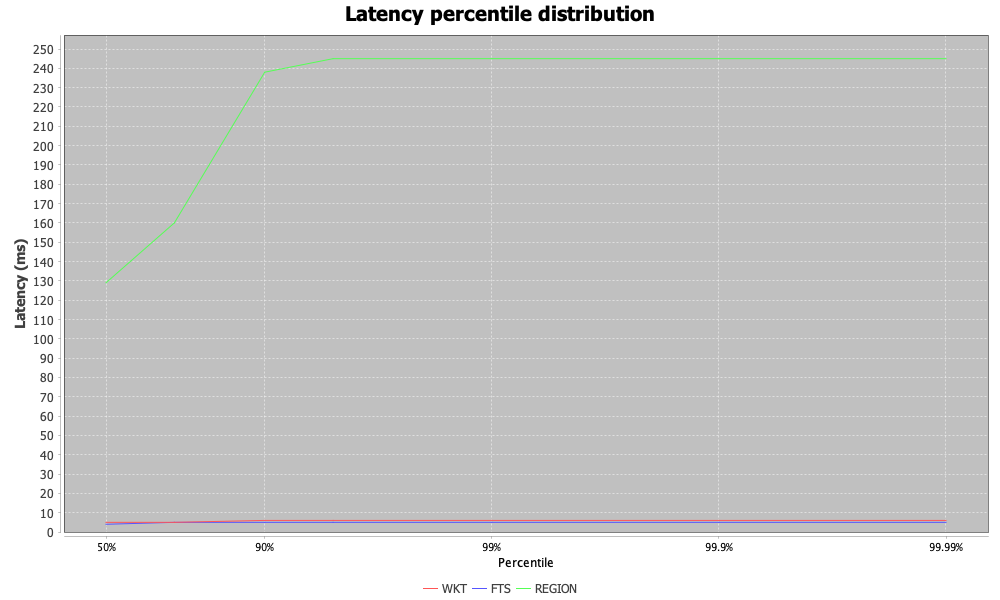
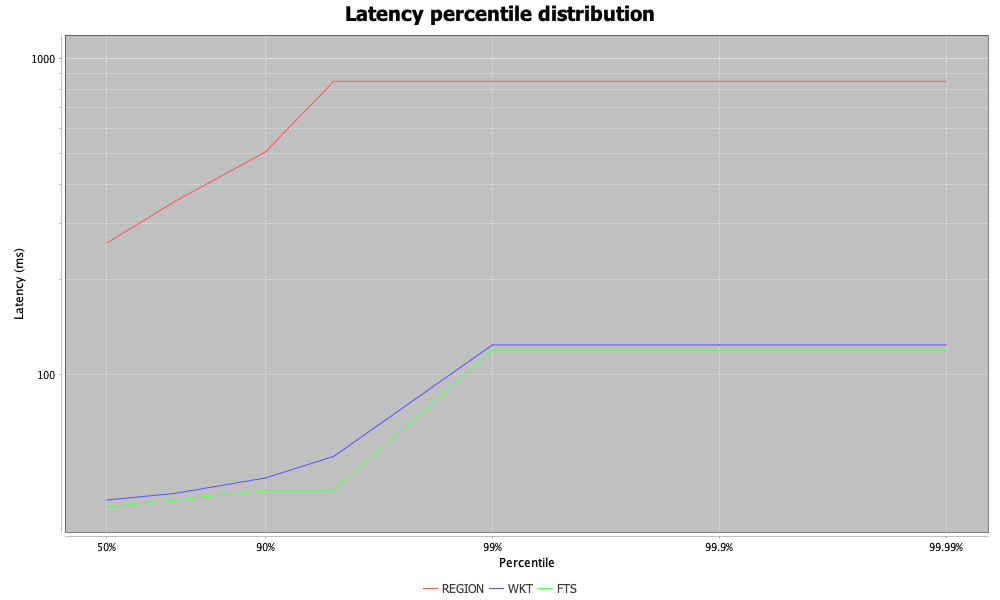
Switch latency-chart Y axis to log10 in all three runtimes
Linear Y crushed fast queries (~10ms) into the floor whenever a slower
query type (~1s) was on the same chart. Log Y gives both visible
vertical space. Java uses JFreeChart's LogarithmicAxis; Python uses
ax.set_yscale("log"); .NET log10-transforms Y manually with a
NumericAutomatic tick generator that re-labels back to milliseconds.
Values are clamped to a 1ms minimum so HdrHistogram's integer-ms zeros
don't break the log axis.

Screenshots in doc/ refreshed against the live cluster, and the
"Latency chart" section in each README now describes the log Y axis
and the library-specific tick handling.

diff --git a/src_weather/main/dotnet/Program.cs b/src_weather/main/dotnet/Program.cs
@@ -381,10 +381,12 @@ void RenderChart(Dictionary<string, LongHistogram> histograms)
     var plot = new ScottPlot.Plot();
     foreach (var (name, h) in histograms)
     {
-        // ScottPlot 5.x has no built-in log-axis transform, so log10 the X
-        // values ourselves and re-label the ticks in the original space.
+        // ScottPlot 5.x has no built-in log-axis transform, so log10 both
+        // axes ourselves and re-label the ticks in their original space.
+        // Clamp Y to 1ms — HdrHistogram returns integer ms, so a 0 here is
+        // really "sub-millisecond" and would break the log Y axis.
         var xs = chartPercentiles.Select(p => Math.Log10(1.0 / (1.0 - p / 100.0))).ToArray();
-        var ys = chartPercentiles.Select(p => (double)h.GetValueAtPercentile(p)).ToArray();
+        var ys = chartPercentiles.Select(p => Math.Log10(Math.Max(h.GetValueAtPercentile(p), 1))).ToArray();
         var scatter = plot.Add.Scatter(xs, ys);
         scatter.LegendText = name;
     }
@@ -395,6 +397,14 @@ void RenderChart(Dictionary<string, LongHistogram> histograms)
     var tickPositions = tickPcts.Select(p => Math.Log10(1.0 / (1.0 - p / 100.0))).ToArray();
     var tickLabels = tickPcts.Select(p => $"{p}%").ToArray();
     plot.Axes.Bottom.TickGenerator = new ScottPlot.TickGenerators.NumericManual(tickPositions, tickLabels);
+
+    // Relabel the Y axis from log10 values back to milliseconds (1, 10, 100, …).
+    plot.Axes.Left.TickGenerator = new ScottPlot.TickGenerators.NumericAutomatic
+    {
+        MinorTickGenerator = new ScottPlot.TickGenerators.LogMinorTickGenerator(),
+        IntegerTicksOnly = true,
+        LabelFormatter = y => $"{Math.Pow(10, y):N0}",
+    };
 
     plot.Title("Latency percentile distribution");
     plot.XLabel("Percentile");

diff --git a/src_weather/main/java/QueryCrate.java b/src_weather/main/java/QueryCrate.java
@@ -18,6 +18,7 @@ import org.jfree.chart.ChartFactory;
 import org.jfree.chart.ChartUtils;
 import org.jfree.chart.JFreeChart;
 import org.jfree.chart.axis.AxisState;
+import org.jfree.chart.axis.LogarithmicAxis;
 import org.jfree.chart.axis.NumberAxis;
 import org.jfree.chart.axis.NumberTick;
 import org.jfree.chart.axis.TickType;
@@ -463,7 +464,10 @@ public class QueryCrate {
             XYSeries series = new XYSeries(entry.getKey());
             for (double p : CHART_PERCENTILES) {
                 double x = Math.log10(1.0 / (1.0 - p / 100.0));
-                series.add(x, entry.getValue().getValueAtPercentile(p));
+                // Clamp to 1ms — HdrHistogram returns integer ms, so a 0 here is
+                // really "sub-millisecond" and would break the log Y axis.
+                double y = Math.max(entry.getValue().getValueAtPercentile(p), 1);
+                series.add(x, y);
             }
             dataset.addSeries(series);
         }
@@ -495,6 +499,10 @@ public class QueryCrate {
         };
         xAxis.setAutoRangeIncludesZero(false);
         plot.setDomainAxis(xAxis);
+
+        LogarithmicAxis yAxis = new LogarithmicAxis("Latency (ms)");
+        yAxis.setAllowNegativesFlag(false);
+        plot.setRangeAxis(yAxis);
 
         File out = new File("latency_histogram.png");
         try {

diff --git a/src_weather/main/python/query_crate.py b/src_weather/main/python/query_crate.py
@@ -246,9 +246,12 @@ def render_chart(histograms: dict[str, HdrHistogram]):
     fig, ax = plt.subplots(figsize=(10, 6))
     for name, h in histograms.items():
         xs = [1.0 / (1.0 - p / 100.0) for p in CHART_PERCENTILES]
-        ys = [h.get_value_at_percentile(p) for p in CHART_PERCENTILES]
+        # Clamp to 1ms — HdrHistogram returns integer ms, so a 0 here is
+        # really "sub-millisecond" and would break the log Y axis.
+        ys = [max(h.get_value_at_percentile(p), 1) for p in CHART_PERCENTILES]
         ax.plot(xs, ys, marker="o", label=name)
     ax.set_xscale("log")
+    ax.set_yscale("log")
 
     # Relabel the log-spaced X axis with human percentile names so the
     # tail (p99 → p99.99) reads as percentages, not as 100 → 10000.

diff --git a/src_weather/main/dotnet/README.md b/src_weather/main/dotnet/README.md
@@ -123,14 +123,19 @@ the working directory — a percentile-distribution plot rendered with
 
 <img src="../../../doc/latency_histogram_dotnet.png" alt="Latency percentile distribution (ScottPlot)" width="100%">
 
-ScottPlot 5.x has no built-in log-axis transform, so the X values are
-log10-transformed before plotting and the ticks are placed manually via
-a `NumericManual` generator with labels `50%`, `90%`, `99%`, `99.9%`,
-`99.99%`. Log-spacing means the long tail (p99 → p99.99) gets visible
-separation instead of being crushed against the right edge. Y is
-round-trip latency in milliseconds. In the chart above the REGION line
-climbs from ~155ms at p50 to a ~280ms plateau by p99, while WKT and FTS
-hug the floor at single-digit milliseconds.
+ScottPlot 5.x has no built-in log-axis transform, so both axes are
+log10-transformed before plotting and the ticks are placed manually.
+For X, a `NumericManual` generator labels positions as `50%`, `90%`,
+`99%`, `99.9%`, `99.99%`. For Y, a `NumericAutomatic` generator with
+`LogMinorTickGenerator` + `IntegerTicksOnly` plus a
+`LabelFormatter = y => $"{Math.Pow(10, y):N0}"` places major ticks at
+log10 integers and re-labels them in original milliseconds. Log Y means
+a fast query at ~10ms and a slow one at ~1000ms both have visible
+vertical space (a linear Y would crush the fast queries into the
+floor). Values are clamped to a 1ms minimum so the log doesn't blow up
+on sub-millisecond samples. In the chart above the REGION line climbs
+from ~187ms at p50 to ~331ms by p99, while WKT and FTS sit lower at
+~25–34ms.
 
 ## Notes on the SQL
 

diff --git a/src_weather/main/java/README.md b/src_weather/main/java/README.md
@@ -136,9 +136,13 @@ type.
 The X axis is `log10(1/(1-p/100))`, relabeled directly as `50%`, `90%`,
 `99%`, `99.9%`, `99.99%`. Log-spacing means the long tail
 (p99 → p99.99) gets visible separation instead of being crushed against
-the right edge. Y is round-trip latency in milliseconds. In the chart
-above the REGION line climbs from ~150ms at p50 to a ~245ms plateau by
-p99, while WKT and FTS hug the floor at single-digit milliseconds.
+the right edge. Y is round-trip latency in milliseconds, also on a
+`LogarithmicAxis` so a fast query at ~10ms and a slow one at ~1000ms
+both have visible vertical space (a linear Y would crush the fast
+queries into the floor). Values are clamped to a 1ms minimum so the log
+axis doesn't blow up on sub-millisecond samples. In the chart above the
+REGION line climbs from ~260ms at p50 to ~850ms by p99, while WKT and
+FTS sit lower at ~30–125ms.
 
 ## Notes on the SQL
 

diff --git a/src_weather/main/python/README.md b/src_weather/main/python/README.md
@@ -131,9 +131,12 @@ relabeled with a `FixedLocator` + `FixedFormatter` pair so they read as
 `50%`, `90%`, `99%`, `99.9%`, `99.99%` instead of the raw `2`, `10`,
 `100`, …. Log-spacing means the long tail (p99 → p99.99) gets visible
 separation instead of being crushed against the right edge. Y is
-round-trip latency in milliseconds. In the chart above the REGION line
-climbs from ~112ms at p50 to a ~271ms plateau by p99, while WKT and FTS
-hug the floor at single-digit milliseconds.
+round-trip latency in milliseconds with `set_yscale('log')`, so a fast
+query at ~10ms and a slow one at ~1000ms both have visible vertical
+space (a linear Y would crush the fast queries into the floor). Values
+are clamped to a 1ms minimum so the log axis doesn't warn on
+sub-millisecond samples. In the chart above the REGION line climbs from
+~240ms at p50 to ~428ms by p99, while WKT and FTS sit lower at ~30–45ms.
 
 ## Notes on the SQL
 